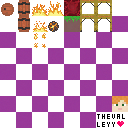
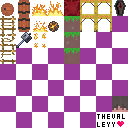
finished tilemap

diff --git a/todo.md b/todo.md
@@ -1,12 +1,12 @@
--   [x] Brennmaterial (Netherrack)
--   [ ] Spieler
--   [ ] Angreifer
--   [ ] Ziel
--   [ ] Leiter
--   [ ] Leiter kaputt
--   [x] Scaffolding
--   [x] Fass quer fallend
--   [ ] Grabstein
--   [X] Block für den Boden
--   [X] Feuer, dass sich bewegt
--   [ ] Maze
+- [x] Brennmaterial (Netherrack)
+- [ ] Spieler
+- [ ] Angreifer
+- [ ] Ziel
+- [x] Leiter
+- [x] Leiter kaputt
+- [x] Scaffolding
+- [x] Fass quer fallend
+- [x] Grabstein
+- [x] Block für den Boden
+- [x] Feuer, dass sich bewegt
+- [x] Macses
